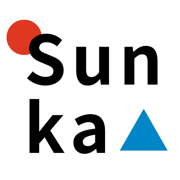
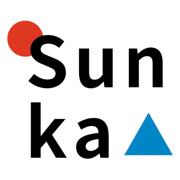
ヘッダーとフッターに「購入前に知りたいこと」を追加、ロゴを背景透過に差し替え
- スマホでも購入前の案内にすぐ移動できるよう、アイテムの右に追加
- ヘッダーの背景を不透明にし、狭いスマホでも2段に収まるよう調整

Claude-Session: https://claude.ai/code/session_01RH5cythh1fYRs7FUTgofhc

diff --git a/assets/css/style.css b/assets/css/style.css
@@ -31,6 +31,9 @@ body {
 
 img { max-width: 100%; display: block; }
 
+/* 固定ヘッダーの下に見出しが隠れないように */
+[id] { scroll-margin-top: 120px; }
+
 a { color: var(--text); text-decoration: none; transition: opacity .2s; }
 a:hover { opacity: .72; }
 
@@ -41,7 +44,7 @@ p { margin: 0; }
 /* ---------- ヘッダー ---------- */
 .site-header {
   position: sticky; top: 0; z-index: 50;
-  background: rgba(255,255,255,.97);
+  background: var(--white);
   border-bottom: 1px solid var(--line);
 }
 .site-header .container {
@@ -222,8 +225,8 @@ p { margin: 0; }
   .site-header .container { gap: 4px 12px; padding-top: 8px; padding-bottom: 6px; }
   .brand span { font-size: 12px; }
   .btn-store { margin-left: auto; padding: 10px 14px; font-size: 12px; }
-  .nav { order: 3; width: 100%; margin-left: 0; justify-content: space-around; gap: 4px 12px; font-size: 13px; }
-  .nav a { padding: 8px 4px; }
+  .nav { order: 3; width: 100%; margin-left: 0; justify-content: space-between; gap: 0 8px; font-size: 12px; letter-spacing: .04em; }
+  .nav a { padding: 8px 0; white-space: nowrap; }
   .hero-frame { height: 72vh; min-height: 460px; }
   .hero h1 { font-size: 34px; }
   .hero-sub { font-size: 15px; }
@@ -247,4 +250,9 @@ p { margin: 0; }
   .news-date, .news-title { font-size: 16px; }
   .article dl { grid-template-columns: 1fr; gap: 4px; }
   .article dd { margin-bottom: 12px; }
+}
+
+/* とても狭いスマホでは、ロゴ横の文字を隠してヘッダーを2段に収める */
+@media (max-width: 400px) {
+  .brand span { display: none; }
 }

diff --git a/news/_templates/event.html b/news/_templates/event.html
@@ -45,6 +45,7 @@
     <nav class="nav" aria-label="メインメニュー">
       <a href="../about.html">わたしたち</a>
       <a href="../items.html">アイテム</a>
+      <a href="../items.html#guide">購入前に知りたいこと</a>
       <a href="./" aria-current="page">お知らせ</a>
     </nav>
     <a class="btn-store" href="https://ateliersunka.base.shop/">ONLINE STORE</a>
@@ -81,6 +82,7 @@
     <nav class="footer-nav" aria-label="フッターメニュー">
       <a href="../about.html">わたしたち</a>
       <a href="../items.html">アイテム</a>
+      <a href="../items.html#guide">購入前に知りたいこと</a>
       <a href="./">お知らせ</a>
       <a href="https://ateliersunka.base.shop/">ONLINE STORE</a>
       <a href="https://www.instagram.com/atelier_sunka25/">Instagram</a>

diff --git a/news/_templates/new.html b/news/_templates/new.html
@@ -32,6 +32,7 @@
     <nav class="nav" aria-label="メインメニュー">
       <a href="../about.html">わたしたち</a>
       <a href="../items.html">アイテム</a>
+      <a href="../items.html#guide">購入前に知りたいこと</a>
       <a href="./" aria-current="page">お知らせ</a>
     </nav>
     <a class="btn-store" href="https://ateliersunka.base.shop/">ONLINE STORE</a>
@@ -63,6 +64,7 @@
     <nav class="footer-nav" aria-label="フッターメニュー">
       <a href="../about.html">わたしたち</a>
       <a href="../items.html">アイテム</a>
+      <a href="../items.html#guide">購入前に知りたいこと</a>
       <a href="./">お知らせ</a>
       <a href="https://ateliersunka.base.shop/">ONLINE STORE</a>
       <a href="https://www.instagram.com/atelier_sunka25/">Instagram</a>

diff --git a/news/index.html b/news/index.html
@@ -32,6 +32,7 @@
     <nav class="nav" aria-label="メインメニュー">
       <a href="../about.html">わたしたち</a>
       <a href="../items.html">アイテム</a>
+      <a href="../items.html#guide">購入前に知りたいこと</a>
       <a href="./" aria-current="page">お知らせ</a>
     </nav>
     <a class="btn-store" href="https://ateliersunka.base.shop/">ONLINE STORE</a>
@@ -67,6 +68,7 @@
     <nav class="footer-nav" aria-label="フッターメニュー">
       <a href="../about.html">わたしたち</a>
       <a href="../items.html">アイテム</a>
+      <a href="../items.html#guide">購入前に知りたいこと</a>
       <a href="./">お知らせ</a>
       <a href="https://ateliersunka.base.shop/">ONLINE STORE</a>
       <a href="https://www.instagram.com/atelier_sunka25/">Instagram</a>

diff --git a/about.html b/about.html
@@ -32,6 +32,7 @@
     <nav class="nav" aria-label="メインメニュー">
       <a href="about.html" aria-current="page">わたしたち</a>
       <a href="items.html">アイテム</a>
+      <a href="items.html#guide">購入前に知りたいこと</a>
       <a href="news/">お知らせ</a>
     </nav>
     <a class="btn-store" href="https://ateliersunka.base.shop/">ONLINE STORE</a>
@@ -112,6 +113,7 @@
     <nav class="footer-nav" aria-label="フッターメニュー">
       <a href="about.html">わたしたち</a>
       <a href="items.html">アイテム</a>
+      <a href="items.html#guide">購入前に知りたいこと</a>
       <a href="news/">お知らせ</a>
       <a href="https://ateliersunka.base.shop/">ONLINE STORE</a>
       <a href="https://www.instagram.com/atelier_sunka25/">Instagram</a>

diff --git a/items.html b/items.html
@@ -32,6 +32,7 @@
     <nav class="nav" aria-label="メインメニュー">
       <a href="about.html">わたしたち</a>
       <a href="items.html" aria-current="page">アイテム</a>
+      <a href="items.html#guide">購入前に知りたいこと</a>
       <a href="news/">お知らせ</a>
     </nav>
     <a class="btn-store" href="https://ateliersunka.base.shop/">ONLINE STORE</a>
@@ -120,6 +121,7 @@
     <nav class="footer-nav" aria-label="フッターメニュー">
       <a href="about.html">わたしたち</a>
       <a href="items.html">アイテム</a>
+      <a href="items.html#guide">購入前に知りたいこと</a>
       <a href="news/">お知らせ</a>
       <a href="https://ateliersunka.base.shop/">ONLINE STORE</a>
       <a href="https://www.instagram.com/atelier_sunka25/">Instagram</a>

diff --git a/index.html b/index.html
@@ -49,6 +49,7 @@
     <nav class="nav" aria-label="メインメニュー">
       <a href="about.html">わたしたち</a>
       <a href="items.html">アイテム</a>
+      <a href="items.html#guide">購入前に知りたいこと</a>
       <a href="news/">お知らせ</a>
     </nav>
     <a class="btn-store" href="https://ateliersunka.base.shop/">ONLINE STORE</a>
@@ -221,6 +222,7 @@
     <nav class="footer-nav" aria-label="フッターメニュー">
       <a href="about.html">わたしたち</a>
       <a href="items.html">アイテム</a>
+      <a href="items.html#guide">購入前に知りたいこと</a>
       <a href="news/">お知らせ</a>
       <a href="https://ateliersunka.base.shop/">ONLINE STORE</a>
       <a href="https://www.instagram.com/atelier_sunka25/">Instagram</a>

diff --git a/CLAUDE.md b/CLAUDE.md
@@ -25,7 +25,7 @@
 | アイテム | items.html | 帽子（定番・1点もの Tuliphat）→ BASE／木工小物 → BASE／購入前に知りたいこと／お手入れと経年変化 |
 | お知らせ | news/ | 一覧と、1件ずつの詳細ページ（イベント出店・新作など） |
 
-メニューの表記：わたしたち／アイテム／お知らせ／ONLINE STORE（→ BASE）
+メニューの表記：わたしたち／アイテム／購入前に知りたいこと（→ items.html#guide）／お知らせ／ONLINE STORE（→ BASE）
 ヘッダーとフッターは全ページ共通にする。
 
 ## 3. つくり方のルール
